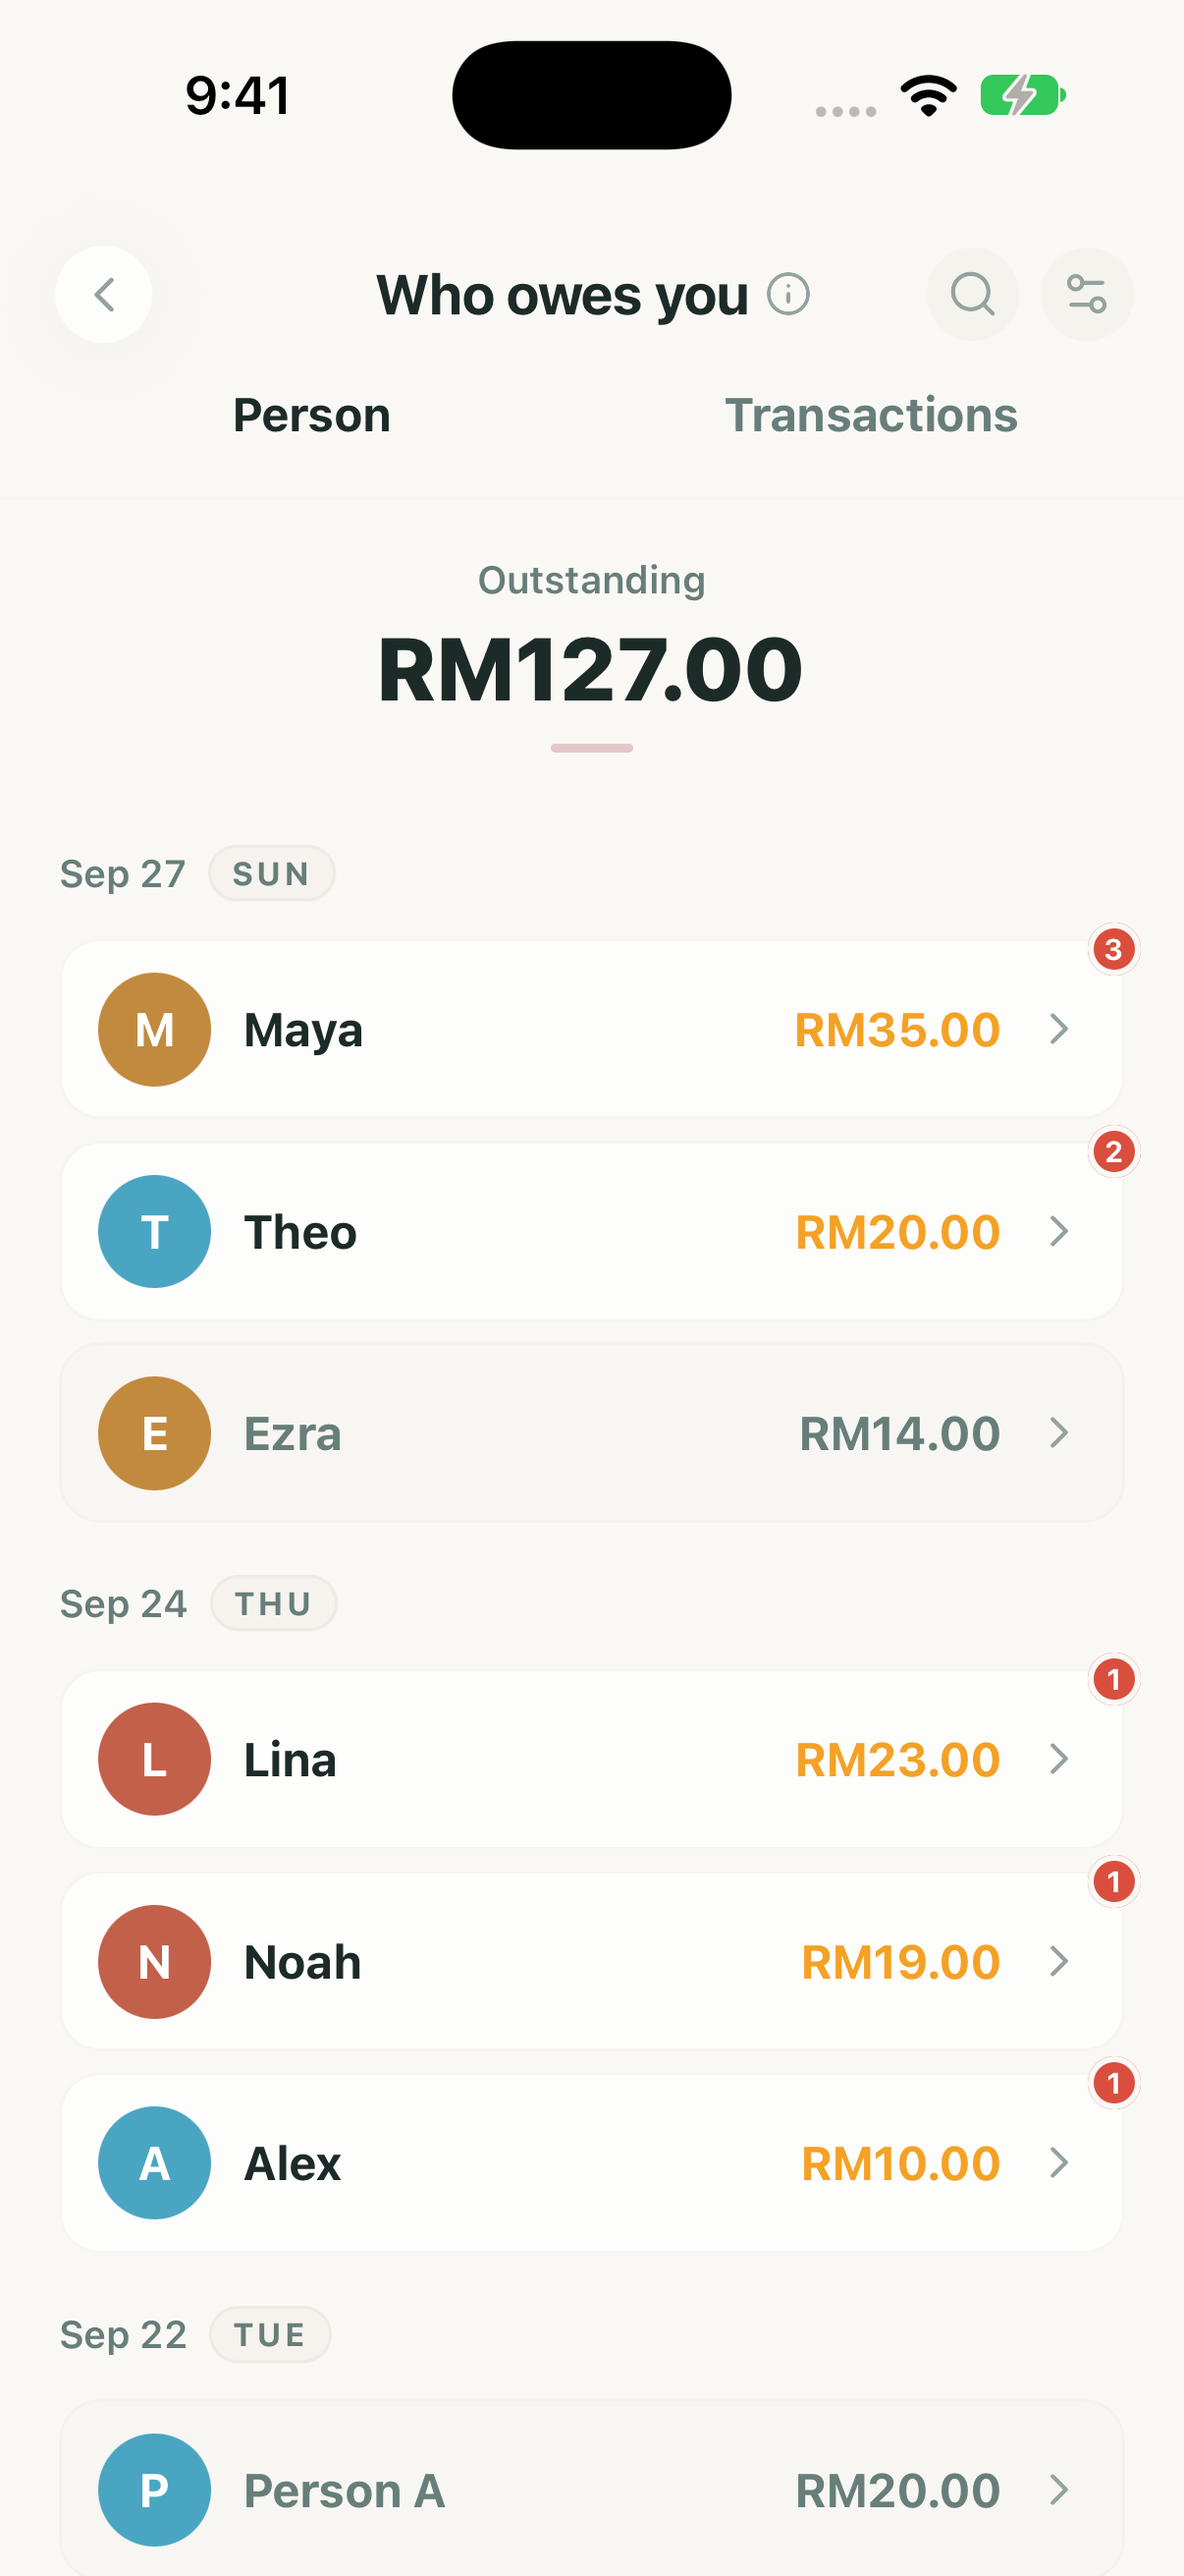
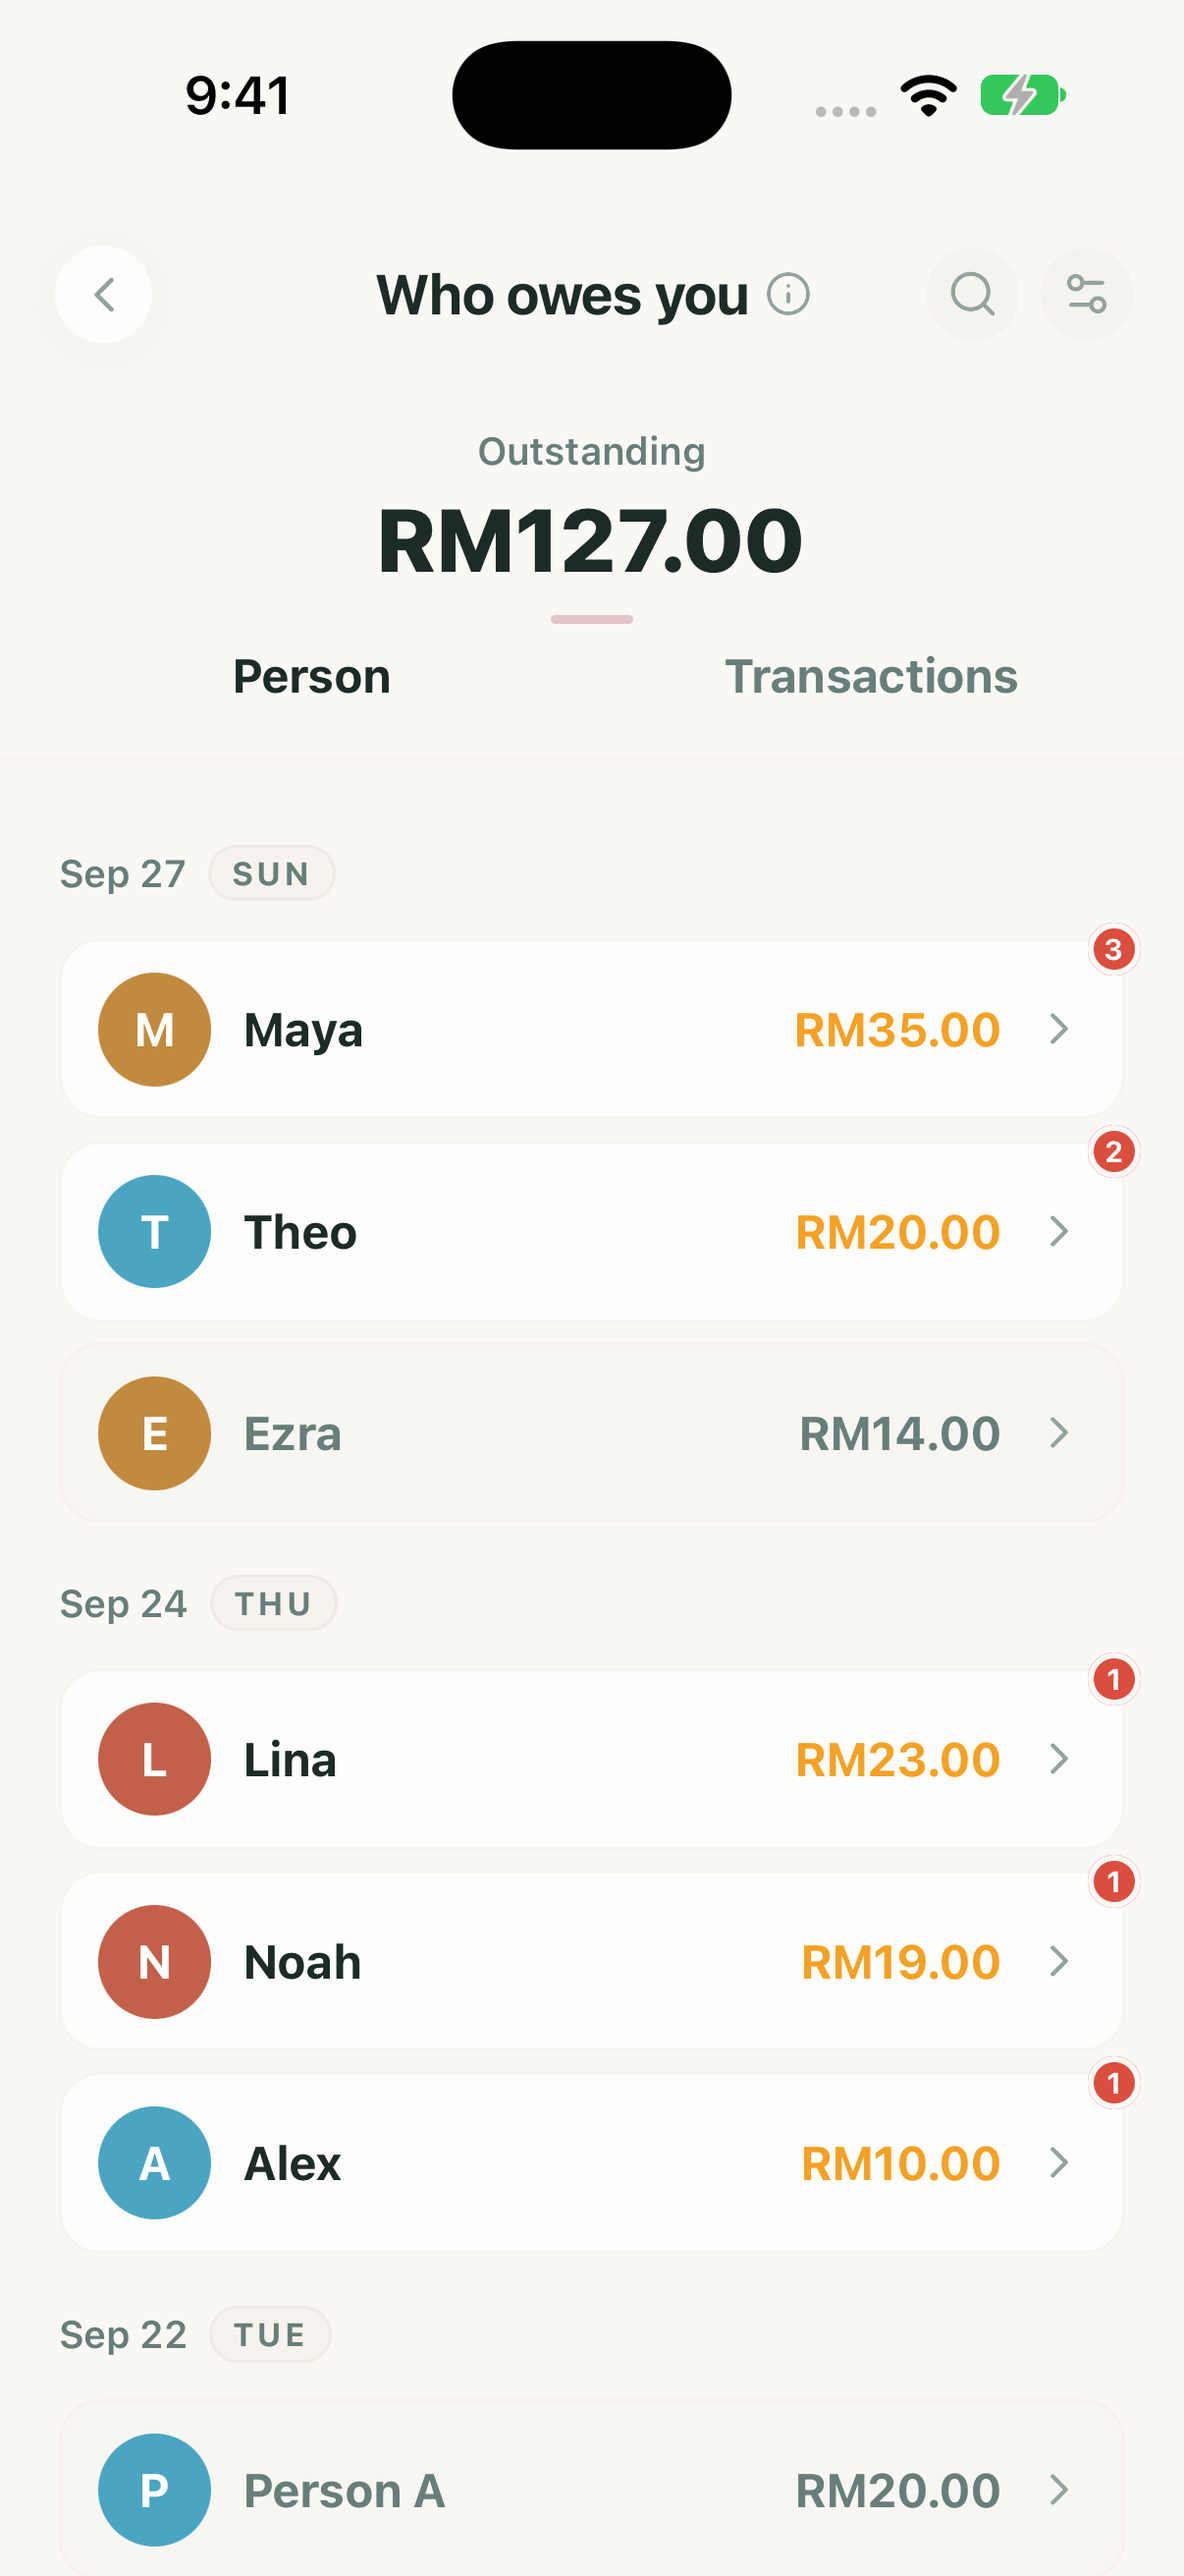
Move outstanding total above settle-up tabs

Changed region(s): [[0.1841, 0.1545, 0.859, 0.3089]]

diff --git a/features/transactions/screens/SettleUpScreen.tsx b/features/transactions/screens/SettleUpScreen.tsx
@@ -424,6 +424,8 @@ export function SettleUpScreen({
         </View>
       ) : null}
 
+      {!isSearchOpen ? renderHero() : null}
+
       {/* Underline tabs: each includes outstanding and paid shares. */}
       <View className="flex-row border-b border-border/15 px-3">
         {tabs.map((t) => {
@@ -475,10 +477,11 @@ export function SettleUpScreen({
                 keyboardShouldPersistTaps="handled"
               >
                 {hasResults ? (
-                  <>
-                    {!isSearchOpen ? renderHero() : null}
-                    {value === 'people' ? renderPeopleList() : renderTransactionsList()}
-                  </>
+                  value === 'people' ? (
+                    renderPeopleList()
+                  ) : (
+                    renderTransactionsList()
+                  )
                 ) : isSearchOpen ? (
                   <EmptyState
                     title={I18n.t('transactions.settleUp.search_empty_title')}
